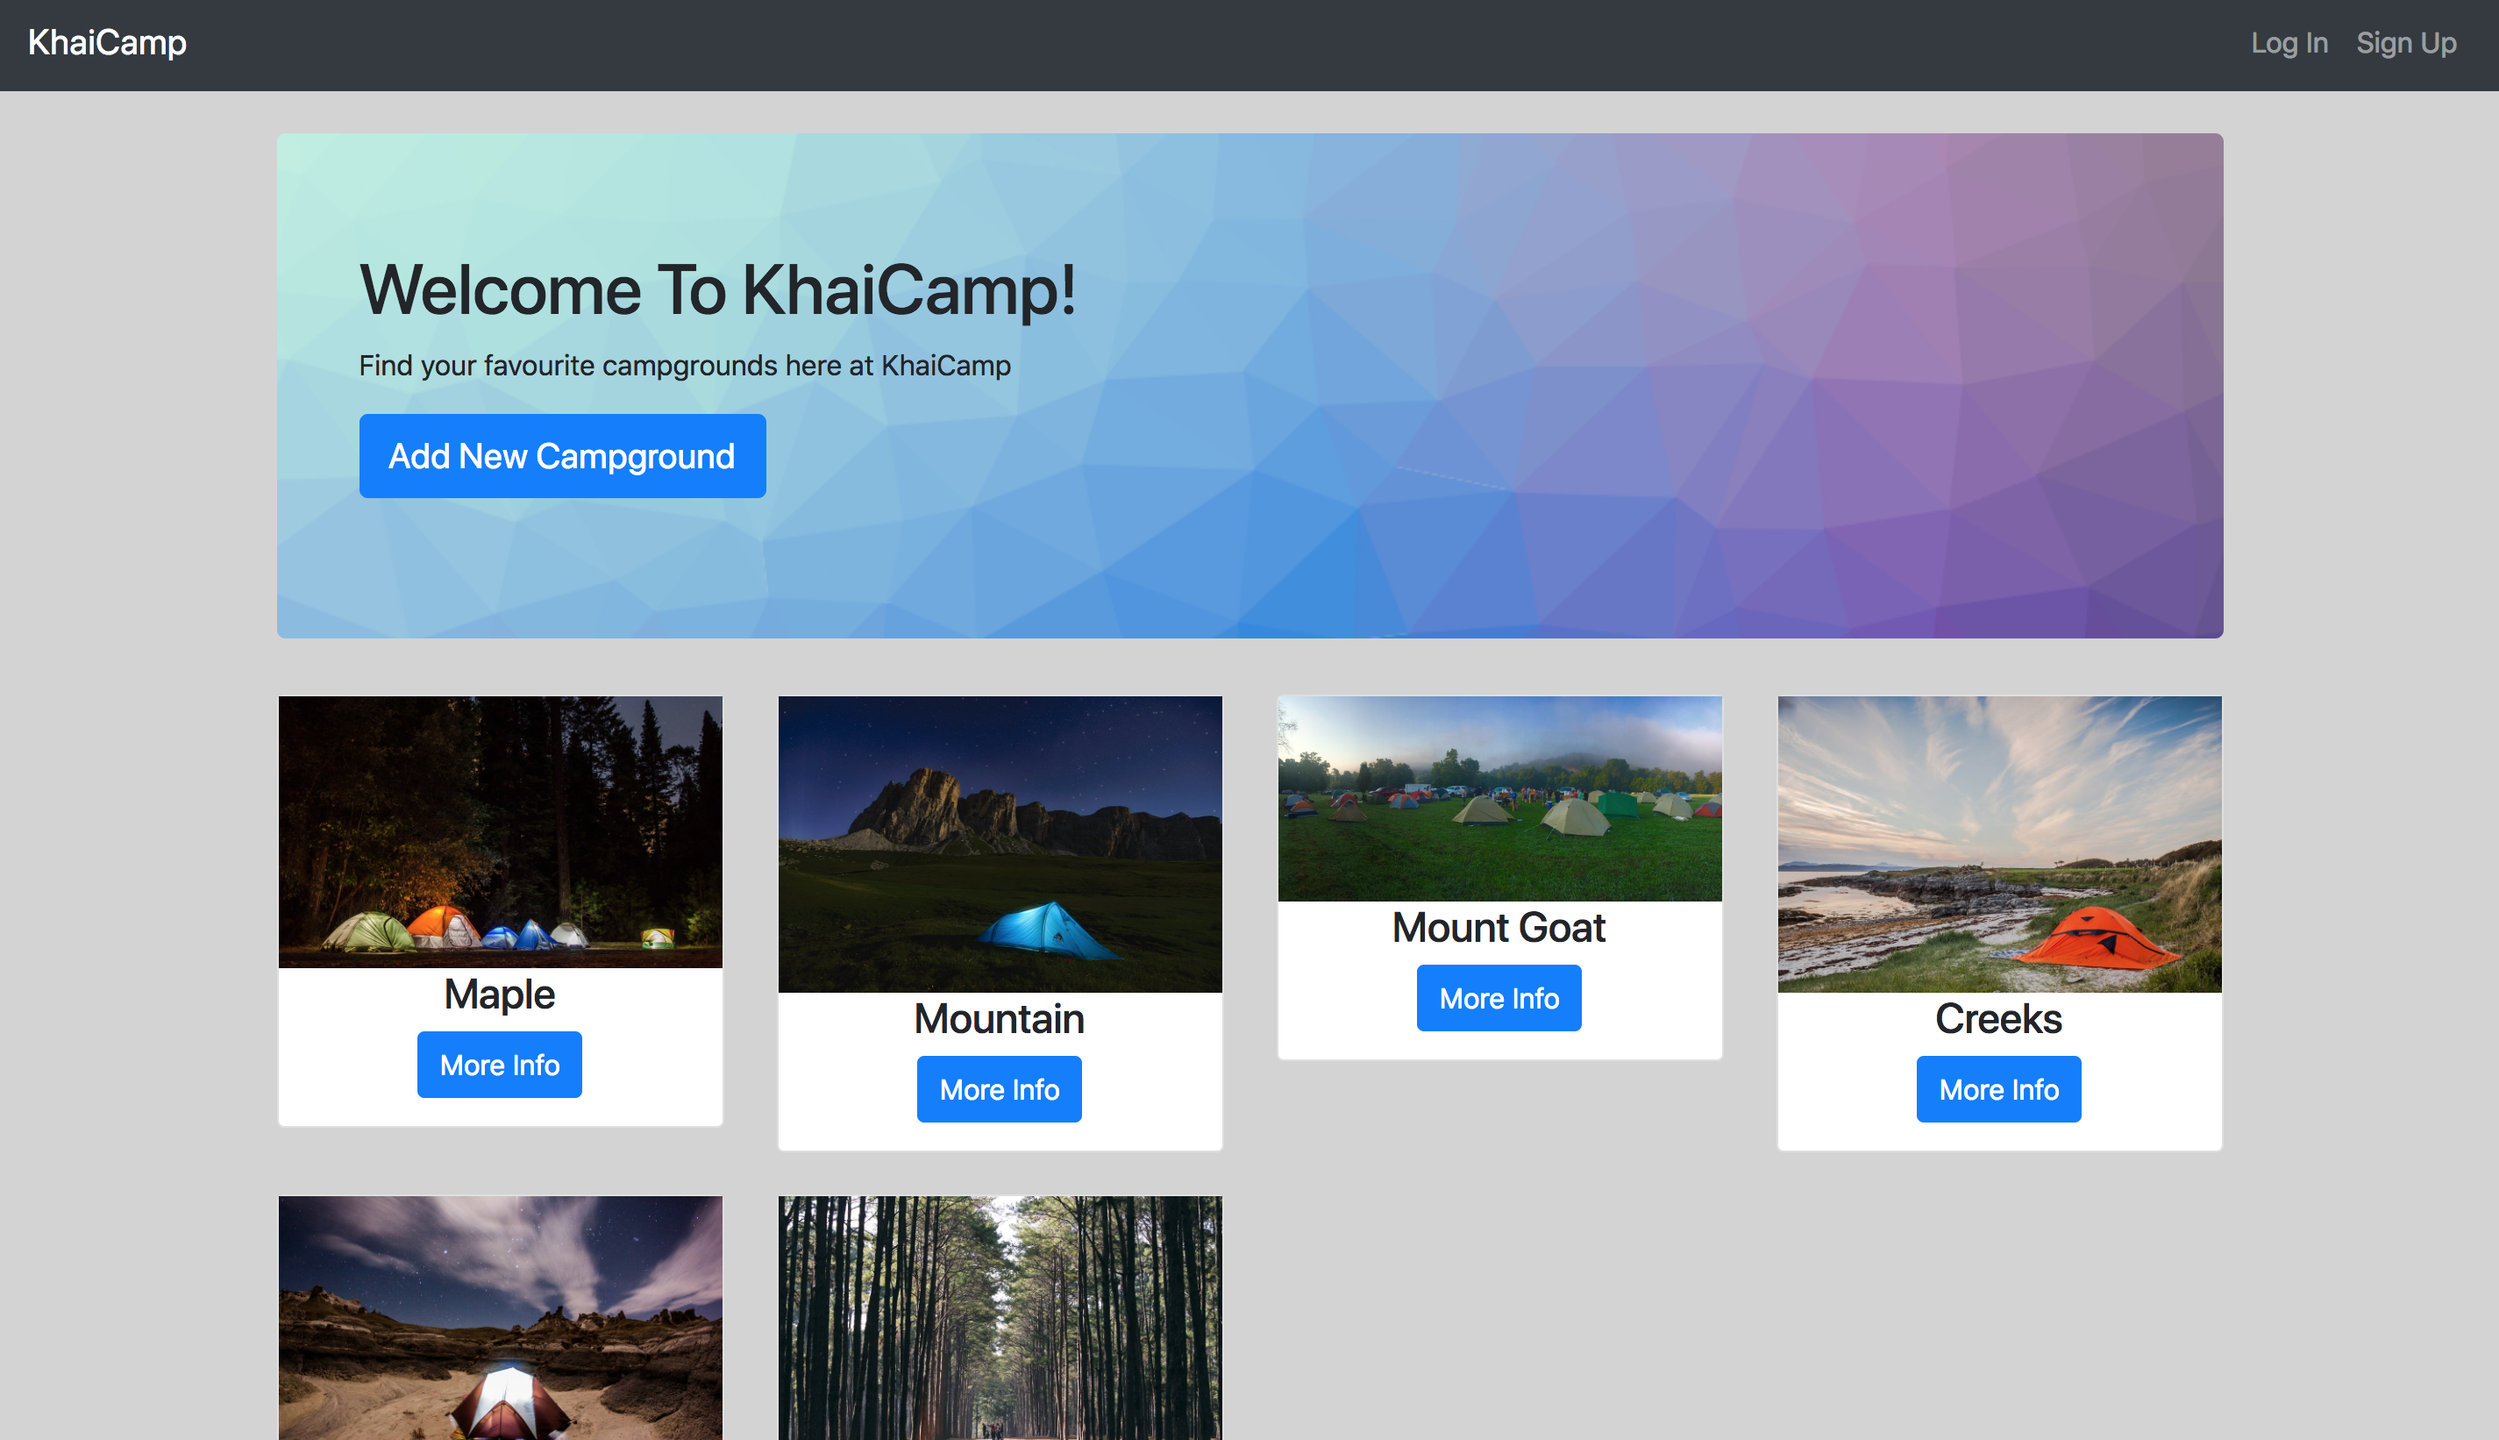
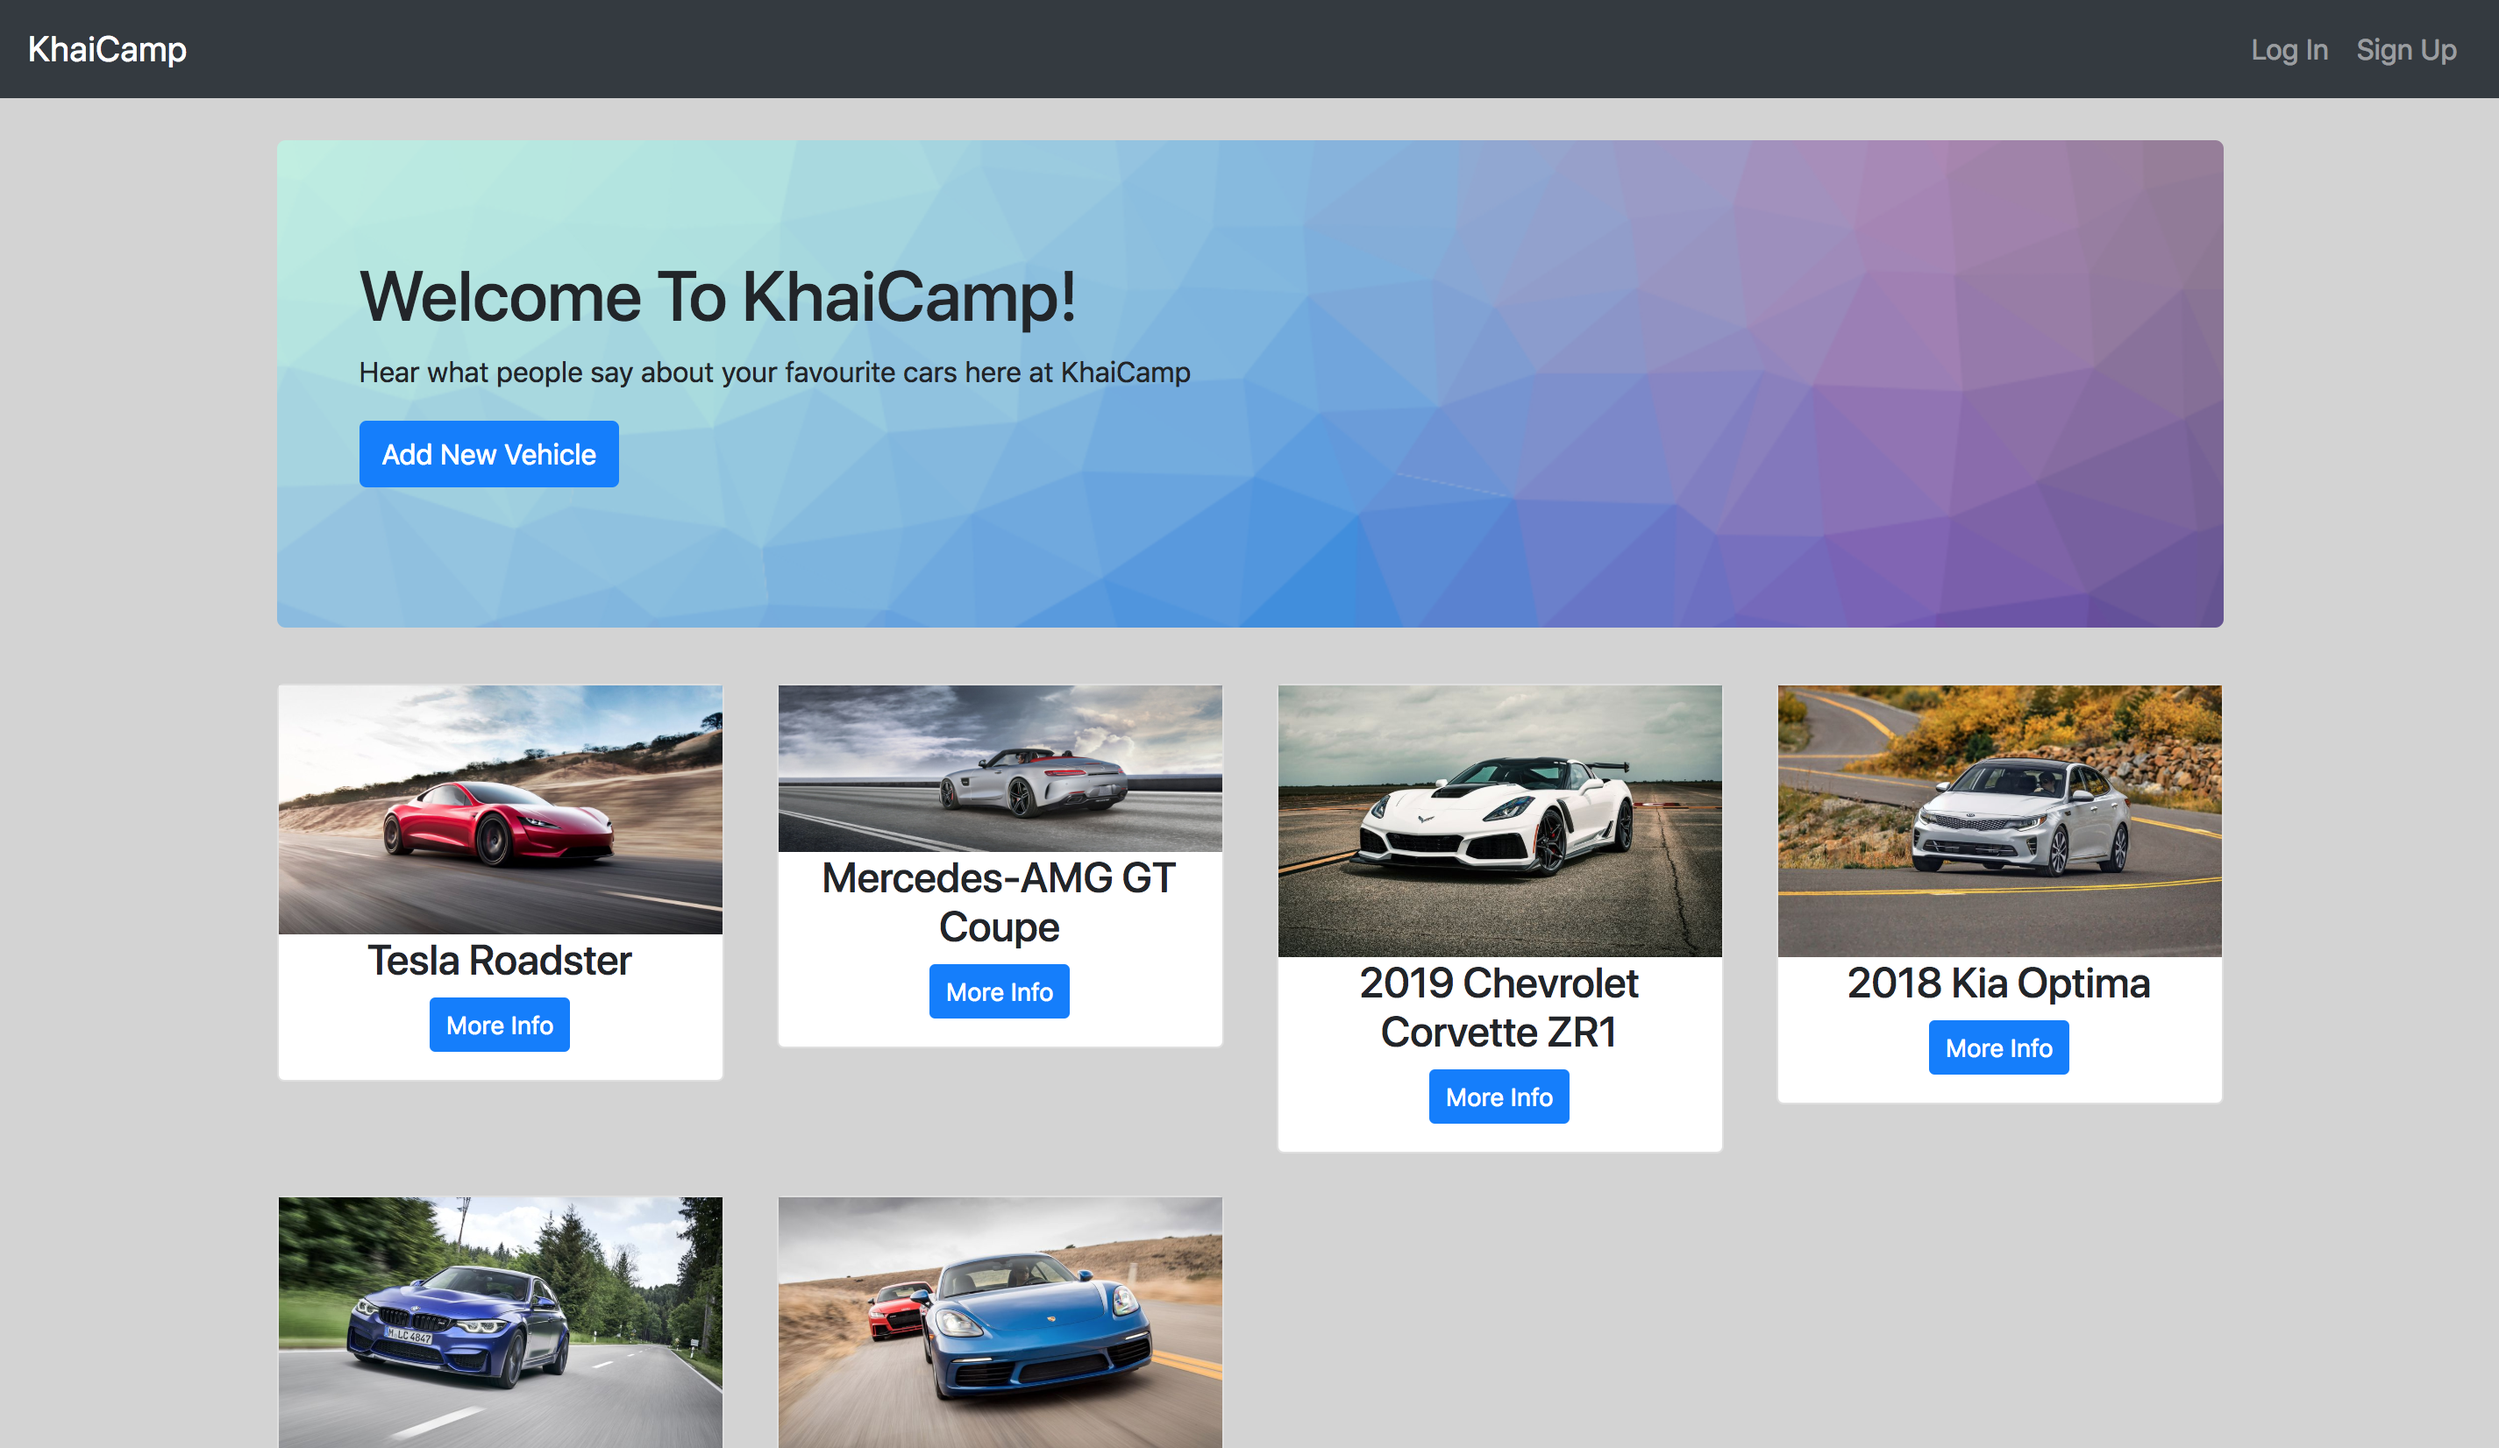
Change KhaiCamp content

diff --git a/index.html b/index.html
@@ -111,7 +111,7 @@
             <div class="content">
               KhaiCamp
               <div class="sub header">Node.js Web Application</div>
-              <p>See the reviews of your next camping adventure.</p>
+              <p>See the reviews of your next car.</p>
             </div>
           </h2>
         </div>
